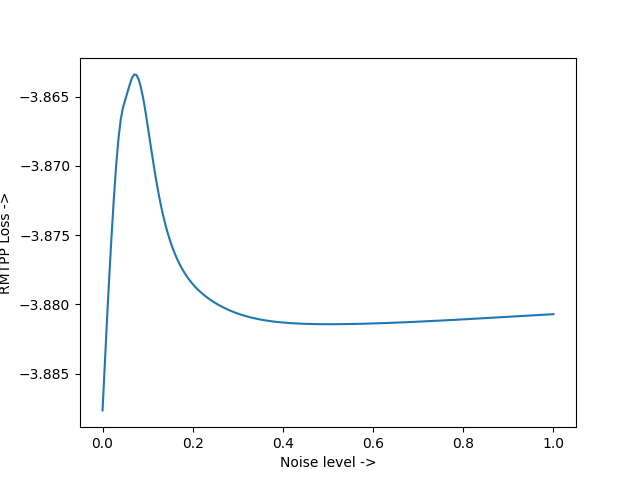
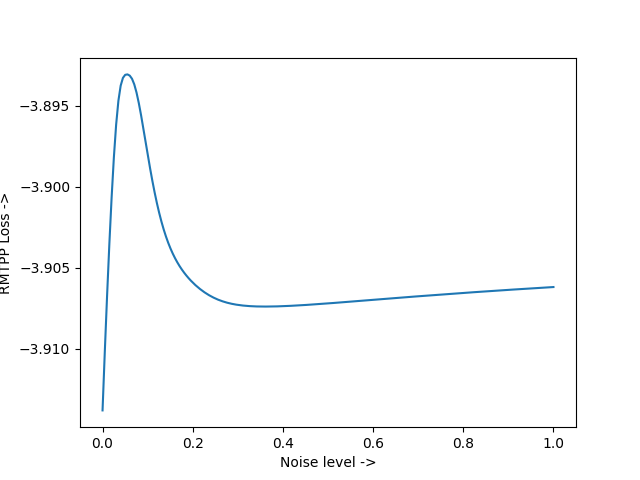
rmtpp loss idx=2 z=0 to 1

diff --git a/noise.py b/noise.py
@@ -79,7 +79,7 @@ def evaluate_noise_loss():
             #print("batch[0][0] shape := ", len(batch[0][0]))
             #batch[0][0][0] += z
             #batch[0][0] += z
-            batch[0][:][5] +=z
+            batch[0][:][2] +=z
             time_tensor, event_tensor = batch
             time_input, time_target = model.dispatch([time_tensor[:, :-1], time_tensor[:, -1]])
             event_input, event_target = model.dispatch([event_tensor[:, :-1], event_tensor[:, -1]])
